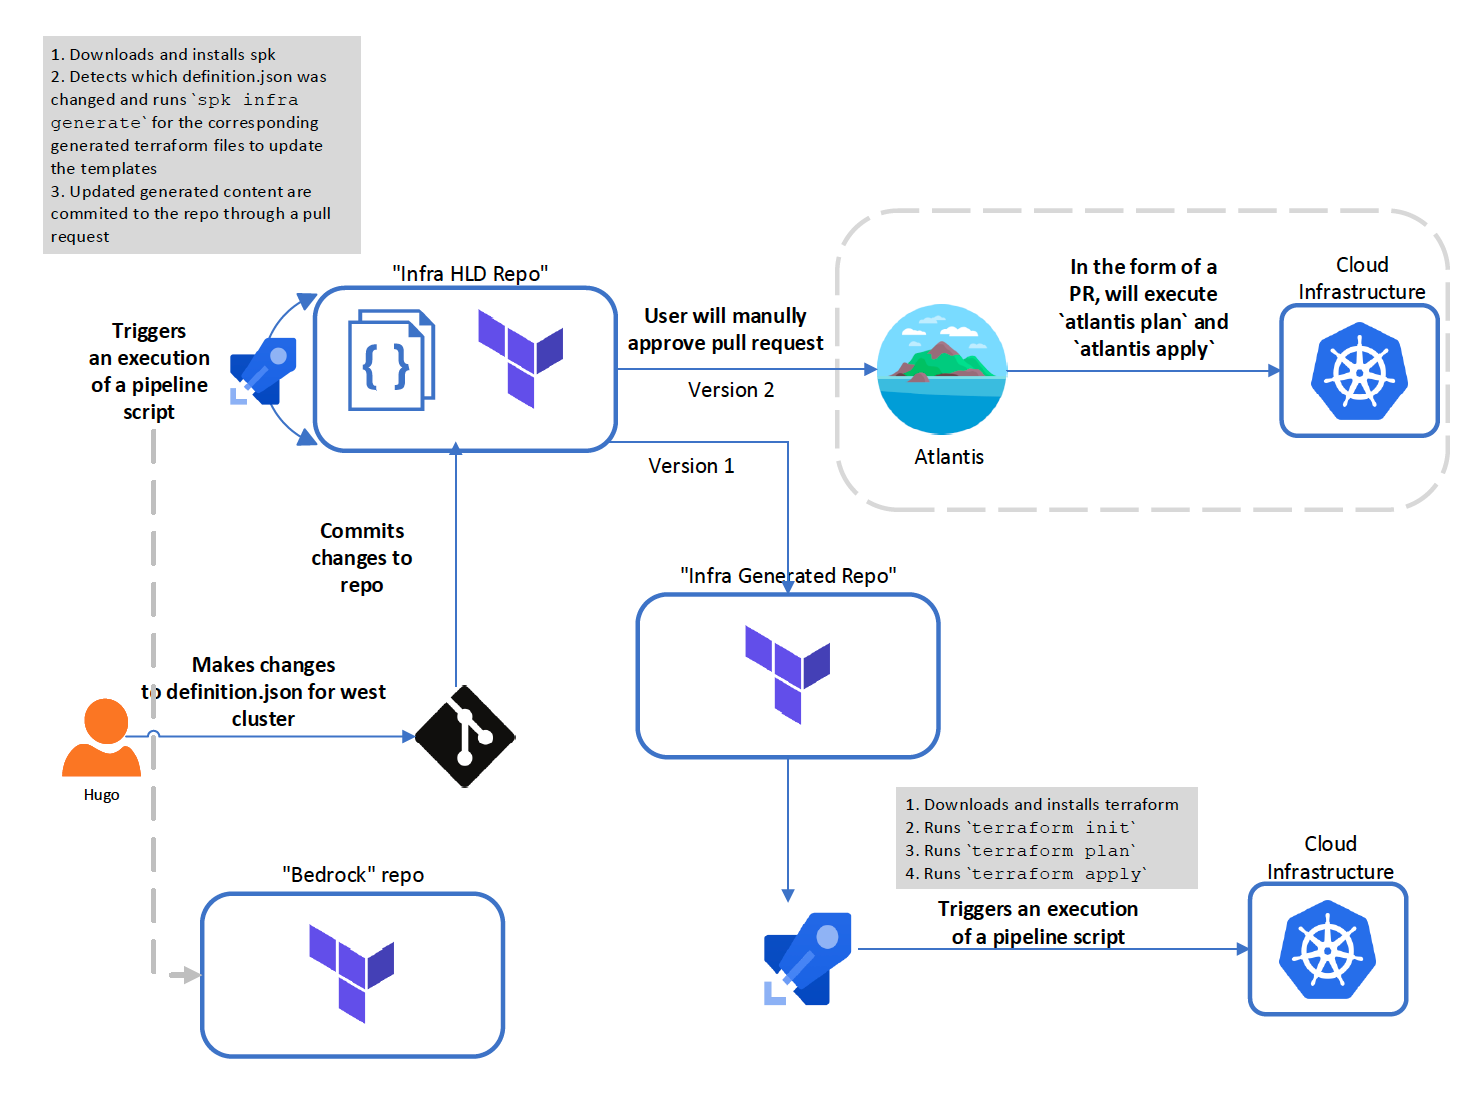
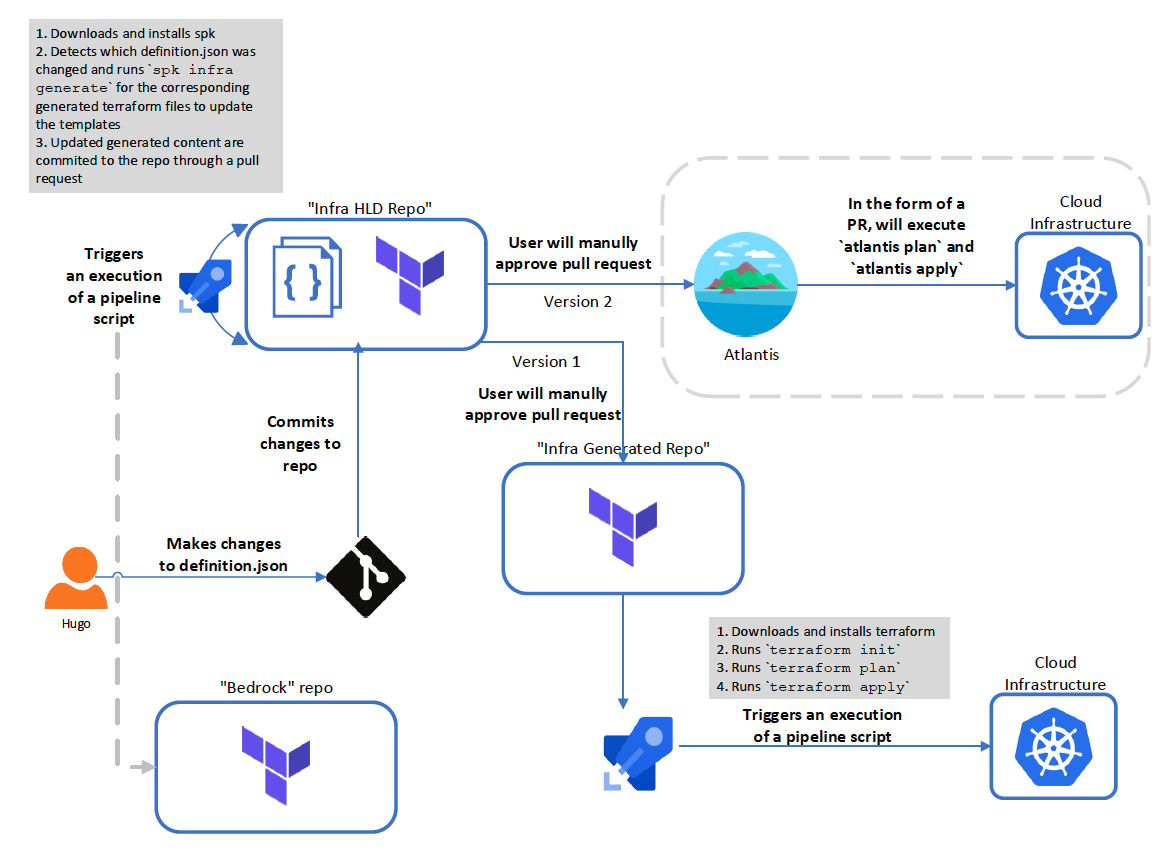
Added content around Atlantis

diff --git a/README.md b/README.md
@@ -2,7 +2,7 @@
 
 An extension to [Bedrock E2E](https://github.com/CatalystCode/bedrock-end-to-end-dx).
 
-Olina's coworker, Hugo, a developer, overheard the exciting project of Bedrock, and is interested in experiementing with it. Olina, who is now an expert at Bedrock,decided to write up this "guide" to help Hugo get started with building, maintaining, and deploying his infrastructure.
+Olina's coworker, Hugo, a developer, overheard the exciting project of Bedrock, and is interested in experiementing with it. Olina, who is now an expert at Bedrock, decided to write up a "guide" to help Hugo get started with building, maintaining, and deploying his infrastructure.
 
 ## Building Cluster Definition
 
@@ -150,12 +150,19 @@ When the changes are merged, another Azure DevOps pipeline will be triggered to 
 
 ## Updating a Template
 
-Hugo wants to add a null resource to his `fabrikam-single-keyvault` template. So, he makes changes to the terraform templates to his personal Bedrock **source** repo. However, now he wants the `discovery-service-west` cluster to reflect this change. Similar to updating a configuration, Hugo makes a change to his `definition.json` by running `spk infra scaffold` to regenerate a `definition.json` with the appropriate (new) variables (or he can simply modify the existing `definition.json`). Then, he commits this change to the Cluster HLD repo, which will trigger the CICD pipelines to accomplish a successful cluster deployment.
+Hugo wants to add a null resource to his `fabrikam-single-keyvault` template. So, he makes changes to the terraform templates to his personal Bedrock **source** repo. However, now he wants the `discovery-service-west` cluster to reflect this change. Similar to updating a configuration, Hugo makes a change to his `definition.json` by running `spk infra scaffold` to regenerate a `definition.json` with the appropriate (new) variables (or he can simply modify the existing `definition.json`). Then, he commits this change to the Cluster HLD repo, which will trigger the CI/CD pipelines to accomplish a successful cluster deployment.
 
 If the template change did not require an update to the `definition.json`, Hugo can also manually trigger the Azure DevOps pipeline to regenerate the terrform files in the Cluster Generated Repo.
 
 ## Version 2
 
-Hugo has done some research on CICD tools, and stumbled upon [Atlantis](https://github.com/runatlantis/atlantis). Hugo attempts to incorporate Atlantis as part of the CICD for infrastructure.
+Hugo has done some research on CI/CD tools, and stumbled upon [Atlantis](https://github.com/runatlantis/atlantis). Hugo attempts to incorporate Atlantis as part of the CI/CD for infrastructure.
+
+Hugo will use Atlantis to create changes to the Cluster Generated repo, and execute
+
+```
+$ atlantis plan
+$ atlantis apply
+```
 
 ![](./images/spk-infra-cicd.png)
